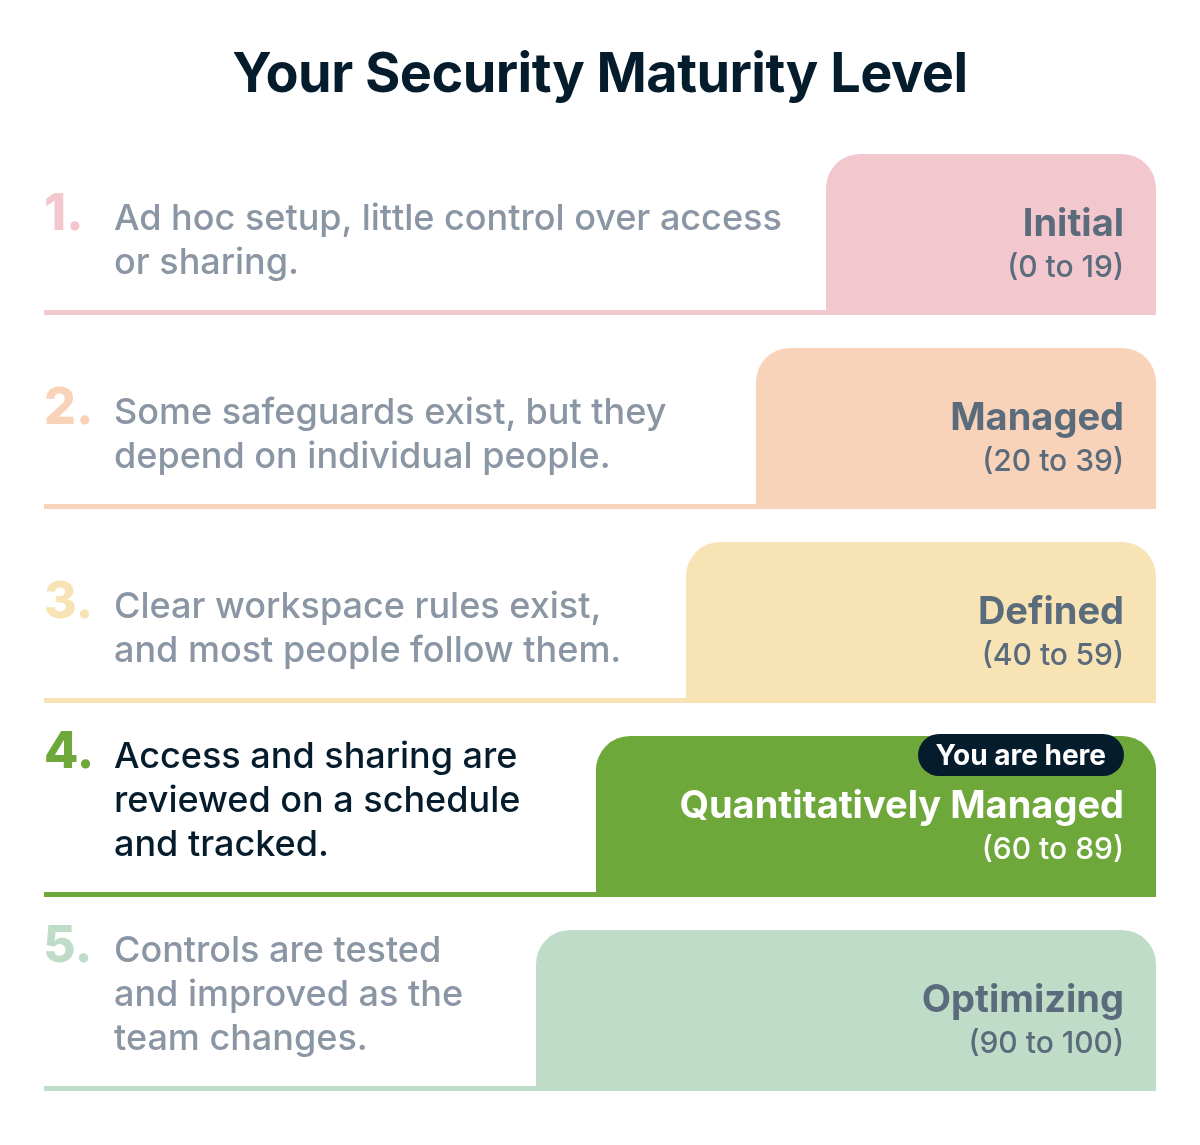
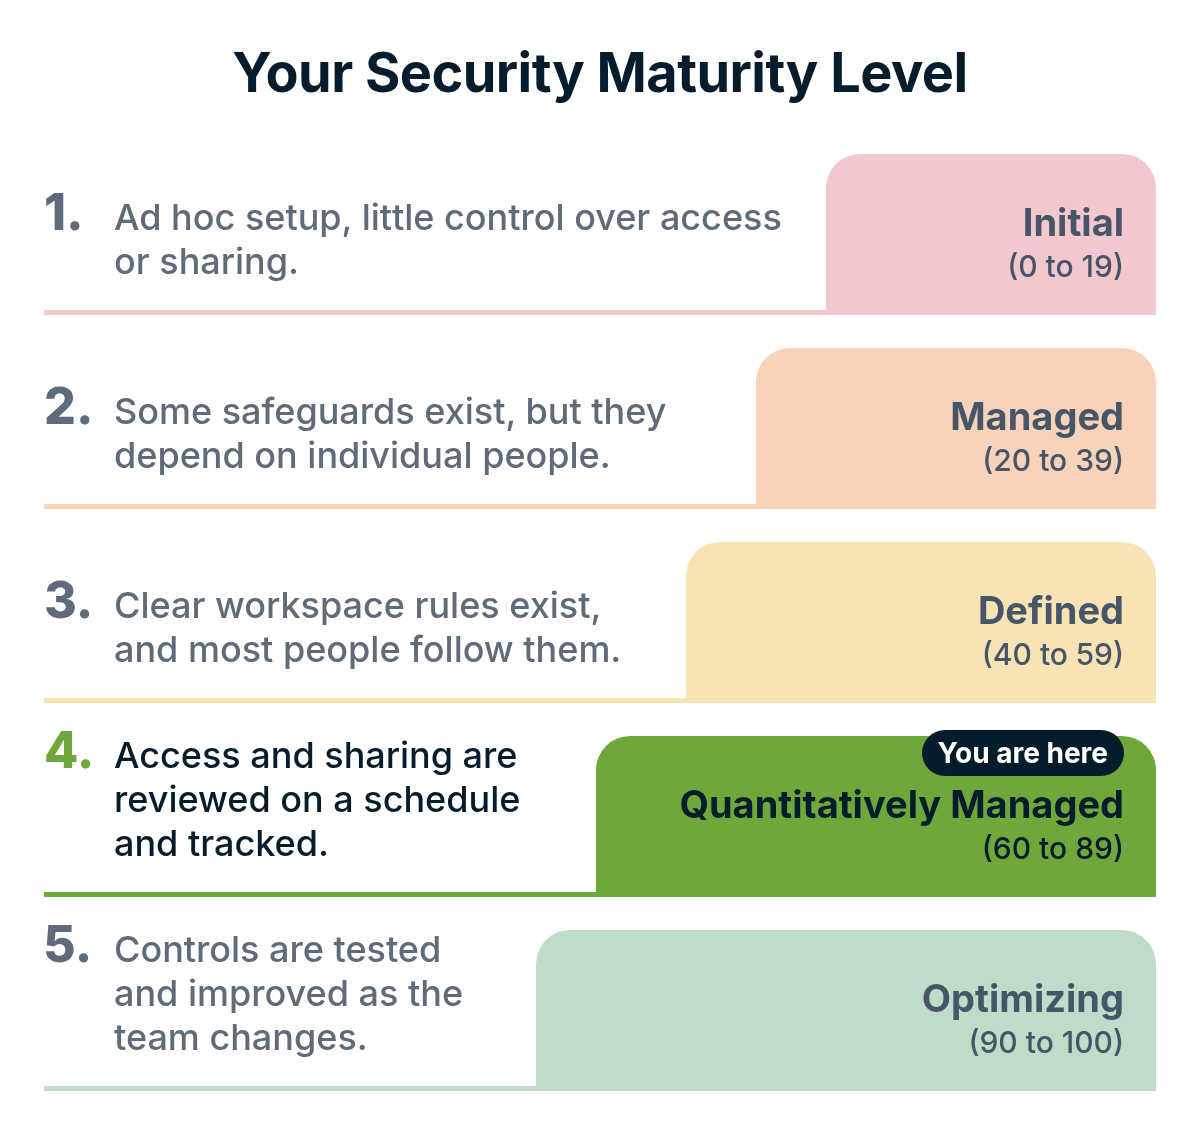
Security Check: Design Critic fixes (staircase contrast, 44px targets, a11y ticks, US dates, repeated steps) + approved copy (level note, good-shape sentence, annual line)

diff --git a/workers/security-check-api/src/render.js b/workers/security-check-api/src/render.js
@@ -2,14 +2,18 @@
 import { esc } from "./validate.js";
 const COL = { gray: "#6b7280", green: "#0F7A32", orange: "#C2410C", red: "#B91C1C" };
 const rt = (arr) => (arr || []).map((x) => {
-  let s = esc(x.text ? x.text.content : x.plain_text || "").replace(/\n/g, "<br>").replace(/✓/g, '<span class="tick">✓</span>');
+  let s = esc(x.text ? x.text.content : x.plain_text || "").replace(/\n/g, "<br>").replace(/✓/g, '<span class="tick">✓</span>').replace(/✅/g, '<span role="img" aria-label="Included" style="color:#0F7A32">✅</span>');
   const a = x.annotations || {};
   if (a.bold) s = "<b>" + s + "</b>";
   if (COL[a.color]) s = '<span style="color:' + COL[a.color] + '">' + s + "</span>";
   const url = x.text && x.text.link && x.text.link.url;
-  if (url) s = /^https:\/\/wa\.me\//.test(url) ? '<a class="bk bk-wa" href="' + esc(url) + '" rel="noopener">' + s + "</a>" : /^mailto:/.test(url) && /email/i.test(s) ? '<a class="bk bk-em" href="' + esc(url) + '">' + s + "</a>" : '<a href="' + esc(url) + '" rel="noopener">' + s + "</a>";
+  if (url) s = /^https:\/\/wa\.me\//.test(url) ? '<a class="bk bk-wa" href="' + esc(url) + '" rel="noopener">' + s + "</a>" : /^mailto:/.test(url) && /email/i.test(s) ? '<a class="bk bk-em" href="' + esc(url) + '">' + s + "</a>" : '<a' + linkClass(x.text.content) + ' href="' + esc(url) + '" rel="noopener">' + s + "</a>";
   return s;
 }).join("");
+// Tap targets (44px at 390): CTAs as navy buttons, contact/footer links as 44px inline-flex targets, other links get vertical padding.
+const CTA = /^\s*(Get the Fix List|Book Fix Session)\s*$/, TAPLINK = /^\s*(Website|www\.anthonytoday\.com|WhatsApp|Email|LinkedIn|Privacy policy|Contact)\s*$/;
+const linkClass = (t) => (CTA.test(t) ? ' class="cta"' : TAPLINK.test(t) ? ' class="tl"' : "");
+const SR = '<span class="sr">Not included</span>';
 const BG = { gray_background: "#f5f5f5", red_background: "#fdecec", blue_background: "#eaf0ff", orange_background: "#fff1e6", green_background: "#e7f7ec", yellow_background: "#fff8db" };
 export function renderBlocks(list, extra = {}) {
   let out = "", listTag = null;
@@ -29,34 +33,45 @@ export function renderBlocks(list, extra = {}) {
     else if (k === "table") {
       const rows = b.children || v.children || [];
       const head = v.has_column_header !== false && rows[0] ? rows[0].table_row.cells.map((c) => (c || []).map((x) => (x.text ? x.text.content : x.plain_text || "")).join("").replace(/\s+/g, " ").trim()) : [];
+      // A table with ✅ cells is a comparison: empty cells get a screen-reader "Not included".
+      const cmp = rows.some((r) => r.table_row.cells.some((c) => (c || []).some((x) => /✅/.test(x.text ? x.text.content : x.plain_text || ""))));
       out += '<table class="st' + (head.length ? " hh" : "") + '">' + rows.map((r, i) => "<tr>" + r.table_row.cells.map((c, j) => {
-        const isHead = (i === 0 && head.length) || (v.has_row_header && j === 0);
-        const cell = rt(c);
-        return isHead ? "<th>" + cell + "</th>" : '<td data-label="' + esc(head[j] || "") + '">' + cell + "</td>";
+        const colHead = i === 0 && head.length, isHead = colHead || (v.has_row_header && j === 0);
+        const cell = rt(c).replace(/(<\/a>) · (<a class="bk)/g, "$1$2"); // the WhatsApp / Email bars stack, so no dot between them
+        if (isHead) return "<th" + (colHead ? ' scope="col"' : ' scope="row"') + ">" + cell + "</th>";
+        return cmp && !cell.trim() ? '<td class="ni" data-label="' + esc(head[j] || "") + '">' + SR + "</td>" : '<td data-label="' + esc(head[j] || "") + '">' + cell + "</td>";
       }).join("") + "</tr>").join("") + "</table>";
     }
+    else if (k === "__footer__") out += "<footer><hr>" + kids + "</footer>";
     else if (k === "__action_db__") out += extra.actionDbHtml || "<p><i>[Action plan database]</i></p>";
   }
   close();
   return out;
 }
 // Action plan grouped by phase (the Notion page has the same rows in the inline database, with By Phase and Timeline views).
-export function renderActionPlan(rows, fmt) {
+export function renderActionPlan(rows, fmtRange) {
   const phases = [...new Set(rows.map((r) => r.phase))];
+  // Item numbers follow the order shown; a repeated step block is shown once, under its first item.
+  const shown = phases.flatMap((ph) => rows.filter((r) => r.phase === ph));
+  const firstHow = new Map();
+  shown.forEach((r, i) => { if (!firstHow.has(r.how)) firstHow.set(r.how, i + 1); else r.sameAs = firstHow.get(r.how); });
   return phases.map((ph) => {
     const rs = rows.filter((r) => r.phase === ph);
-    const when = rs[0].start ? fmt(rs[0].start) + " to " + fmt(rs[rs.length - 1].end) : "When your team has capacity";
-    return '<section class="ph"><h3>' + esc(ph) + ' <span class="when">' + esc(when) + "</span></h3><ul class=\"acts\">" +
+    const when = rs[0].start ? fmtRange(rs[0].start, rs[rs.length - 1].end) : "When your team has capacity";
+    return '<section class="ph"><h3>' + esc(ph) + ': <span class="when">' + esc(when) + "</span></h3><ul class=\"acts\">" +
       rs.map((r) => '<li><span class="tick">✓</span><div><b>' + esc(r.action) + '</b><div class="aim"><span>Priority: ' + esc(r.priority) + "</span><span>" + esc(r.domain) + "</span>" + (r.owner ? "<span>Owner: " + esc(r.owner) + "</span>" : "") + "</div>" +
-        '<p class="how"><b>Steps:</b> ' + esc(r.how) + "</p>" + (r.impact ? "<p><b>Impact:</b> " + esc(r.impact) + "</p>" : "") +
+        (r.sameAs ? '<p class="how"><b>Steps:</b> Same steps as item ' + r.sameAs + ".</p>" : '<p class="how"><b>Steps:</b> ' + esc(r.how) + "</p>") + (r.impact ? "<p><b>Impact:</b> " + esc(r.impact) + "</p>" : "") +
         (r.planNote ? "<p><b>Plan note:</b> " + esc(r.planNote) + "</p>" : "") + (r.source ? '<p><a href="' + esc(r.source) + '" rel="noopener">Notion help</a></p>' : "") + "</div></li>").join("") + "</ul></section>";
   }).join("");
 }
 export function renderPage(title, list, banner, extra) {
   return "<!doctype html><html lang=\"en\"><head><meta charset=\"utf-8\"><meta name=\"viewport\" content=\"width=device-width,initial-scale=1\"><meta name=\"robots\" content=\"noindex,nofollow\"><link rel=\"icon\" href=\"https://www.anthonytoday.com/assets/brand/favicon.png\"><link rel=\"apple-touch-icon\" href=\"https://www.anthonytoday.com/assets/brand/apple-touch-icon.png\"><title>" + esc(title) + "</title><style>" +
     "img.stair{display:block;width:600px;max-width:100%;height:auto;margin:12px 0 4px}*{box-sizing:border-box}body{font-family:-apple-system,BlinkMacSystemFont,'Segoe UI',sans-serif;color:#051C2C;max-width:820px;margin:0 auto;padding:32px 20px 64px;line-height:1.6;overflow-wrap:anywhere}" +
-    "h1{font-size:30px;margin:0 0 8px}h2{font-size:26px;margin:32px 0 10px}h3{font-size:19px;margin:20px 0 8px}summary h3{display:inline}summary{cursor:pointer;margin:12px 0 6px}" +
-    "td .bk{display:block;text-align:center;text-decoration:none;font-weight:600;border-radius:8px;padding:8px 10px;margin:8px 0 0;font-size:14px}td .bk-wa{background:#25D366;color:#fff}td .bk-em{background:#051C2C;color:#fff}" +
+    "h1{font-size:30px;margin:0 0 8px}h2{font-size:26px;margin:32px 0 10px}h3{font-size:19px;margin:20px 0 8px}summary h3{display:inline}summary{cursor:pointer;margin:12px 0 6px;min-height:44px;padding:10px 0;box-sizing:border-box}" +
+    ".sr{position:absolute;width:1px;height:1px;overflow:hidden;clip:rect(0 0 0 0);white-space:nowrap}a{padding:14px 0}a.tl{display:inline-flex;align-items:center;min-height:44px;padding:0 10px}" +
+    "a.cta{display:inline-flex;align-items:center;min-height:44px;padding:12px 20px;background:#051C2C;color:#fff;border-radius:8px;font-weight:600;text-decoration:none;margin:4px 0}" +
+    "footer{margin-top:32px;font-size:14px;color:#5B6672}footer p{margin:6px 0}footer a.tl:first-child{padding-left:0}td.ni::before{display:none}" +
+    "td .bk{display:flex;align-items:center;justify-content:center;min-height:44px;text-align:center;text-decoration:none;font-weight:600;border-radius:8px;padding:8px 10px;margin:8px 0 0;font-size:14px}td .bk-wa{background:#25D366;color:#fff}td .bk-em{background:#051C2C;color:#fff}" +
     ".ph{border:1px solid #E5E7EB;border-radius:10px;margin:14px 0;padding:4px 16px 8px}.ph h3{margin:12px 0 6px}.when{font-weight:400;font-size:14px;color:#5B6672}.acts{list-style:none;padding:0;margin:0}.acts li{display:flex;gap:10px;border-top:1px solid #E5E7EB;padding:12px 0}.acts li:first-child{border-top:0}.acts p{margin:6px 0 0;font-size:14.5px}" +
     "@media (max-width:640px){body{padding:20px 14px 48px}h1.pt{font-size:26px}table.st,table.st tbody,table.st tr,table.st td,table.st th{display:block;width:100%}table.st.hh tr:first-child{display:none}table.st tr{border:1px solid #E5E7EB;border-radius:8px;margin:0 0 10px;padding:6px 10px}table.st th,table.st td{border:0;padding:4px 0}table.st td::before{content:attr(data-label);display:block;font-size:12.5px;color:#5B6672}table.st td:empty,table.st td[data-label=\"\"]::before{display:none}}" +
     "table{border-collapse:collapse;width:100%;font-size:14.5px;margin:8px 0}th,td{border:1px solid #E5E7EB;padding:7px 9px;text-align:left;vertical-align:top}th{background:#F5F5F5}" +

diff --git a/workers/security-check-api/src/notion-tpl.js b/workers/security-check-api/src/notion-tpl.js
@@ -2,6 +2,9 @@
 // reads the template's blocks through the API, applies {{tokens}} and {{#if}} blocks, writes a new page.
 // The Notion API cannot duplicate a page or a database, so the page is rebuilt block by block and the
 // action database is re-created with the template's schema (views cannot be created through the API: gap).
+import { REWRITES } from "./copy.js";
+// Approved wording swaps (copy.js), run by run, before tokens are filled.
+const rewrite = (rt) => (rt || []).map((x) => { let c = x.plain_text ?? x.text?.content ?? ""; const o = c; for (const [a, b] of REWRITES) if (!c.includes(b)) c = c.split(a).join(b); return c === o ? x : { ...x, plain_text: c, text: { ...(x.text || {}), content: c } }; });
 const LIST_NUMBERED = new Set(["priority_risks", "risk_list"]);
 const LIST_BULLET = new Set(["plan_features_unused"]);
 const RO = ["id", "created_time", "last_edited_time", "created_by", "last_edited_by", "has_children", "archived", "in_trash", "parent", "request_id"];
@@ -46,6 +49,7 @@ function fillRt(rt, T) {
         const v = T[m[1]];
         if (v && typeof v === "object" && !Array.isArray(v)) { if (v.link) out.push(txt(v.text, { url: v.link })); continue; }
         if (Array.isArray(v)) { out.push(txt(v.map((i) => (i.b || "") + (i.t || "")).join("; "), { color: x.annotations?.color })); continue; }
+        if (String(v) === "") continue;
         out.push({ type: "text", text: { content: String(v), link: url ? { url } : null }, annotations: x.annotations });
       } else out.push({ type: "text", text: { content: part, link: url ? { url } : null }, annotations: x.annotations });
     }
@@ -135,7 +139,7 @@ export function transform(blocks, T, ctx = {}) {
     const nb = { type: k, [k]: JSON.parse(JSON.stringify(v)) };
     for (const f of Object.keys(nb[k])) if (nb[k][f] === null) delete nb[k][f]; // read API returns e.g. paragraph.icon: null, which the write API rejects
     for (const f of RO) delete nb[f];
-    if (nb[k].rich_text) nb[k].rich_text = fillRt(inlineIf(nb[k].rich_text, T), T);
+    if (nb[k].rich_text) nb[k].rich_text = fillRt(inlineIf(rewrite(nb[k].rich_text), T), T);
     if (k === "table_row") {
       nb[k].cells = v.cells.map((c) => fillRt(c, T));
       // WhatsApp / Email under the two paid offers, as in Anthony's approved sample.
@@ -151,11 +155,14 @@ export function transform(blocks, T, ctx = {}) {
     if (k === "callout" && /^Overall Level/.test(text) && nb.children) nb.children.forEach((c) => { const ct = c[c.type] && c[c.type].rich_text; if (ct && /^Level /.test(plain(ct))) ct.forEach((x) => { x.annotations = { ...(x.annotations || {}), bold: false }; }); });
     // Domain Profile: add the Overall row in the same layout.
     if (k === "table" && nb.children && plain(nb.children[0].table_row.cells[0] || []).trim() === "Area" && T.overall_bar) {
+      ctx.levelNoteAfter = true;
       nb.children.push({ type: "table_row", table_row: { cells: [[{ type: "text", text: { content: "Overall" }, annotations: { bold: true } }], [txt(T.overall_bar)], [txt(T.overall_score + "/100")], [txt("Level " + T.overall_level_number + ", " + T.overall_level)]] } });
       nb[k].table_width = nb[k].table_width || 4;
     }
     if (k === "table") ctx.offerTable = null;
     out.push(nb);
+    // Item 6: the level note as a small gray line directly under the Domain Profile table.
+    if (ctx.levelNoteAfter && T.level_note) { ctx.levelNoteAfter = false; out.push({ type: "paragraph", paragraph: { rich_text: [txt(T.level_note, { color: "gray" })] } }); }
   }
   return out;
 }
@@ -185,9 +192,11 @@ export { actionRows } from "./tokens.js";
 
 // Standard footer for the Notion pages and the Worker-rendered /r/ and /f/ (emails keep their own footer).
 // No Terms link: https://www.anthonytoday.com/terms/ returns 404 (checked 19 Oct 2026).
-export function withFooter(blocks) {
+export function withFooter(blocks, web = false) {
   const link = (t, u) => ({ type: "text", text: { content: t, link: { url: u } } });
-  return [...blocks, { type: "divider", divider: {} },
+  const foot = [
     { type: "paragraph", paragraph: { rich_text: [{ type: "text", text: { content: "© 2026 AnthonyToday.com. All rights reserved." }, annotations: { color: "gray" } }] } },
     { type: "paragraph", paragraph: { rich_text: [link("Privacy policy", "https://www.anthonytoday.com/privacy/"), txt(" · "), link("Contact", "https://www.anthonytoday.com/contact/"), txt(" · "), link("www.anthonytoday.com", "https://www.anthonytoday.com/")] } }];
+  // Web (/r/, /f/): wrapped in a <footer> element by the renderer. Notion: plain blocks after a divider.
+  return web ? [...blocks, { type: "__footer__", children: foot }] : [...blocks, { type: "divider", divider: {} }, ...foot];
 }

diff --git a/workers/security-check-api/src/tokens.js b/workers/security-check-api/src/tokens.js
@@ -1,3 +1,4 @@
+import { COPY, goodShapeSentence } from "./copy.js";
 // Computes every placeholder in /workspace/marketing/security-check-template-placeholders.md.
 // Scalar tokens are strings. List tokens are arrays of items {b: bold lead, t: text, url?}.
 // Typed values (first_name, company) are inserted as plain text; callers escape for HTML.
@@ -6,7 +7,9 @@ const cap = (s) => (s ? s.charAt(0).toUpperCase() + s.slice(1) : s);
 const lc = (s) => (s ? s.charAt(0).toLowerCase() + s.slice(1) : s);
 const joinAnd = (a) => (a.length <= 1 ? a.join("") : a.slice(0, -1).join(", ") + " and " + a[a.length - 1]);
 export const bar = (s) => (s === null ? "N/A" : "▰".repeat(Math.floor(s / 10)) + "▱".repeat(10 - Math.floor(s / 10)));
-export const fmtDate = (d) => new Date(d).toLocaleDateString("en-GB", { day: "numeric", month: "short", year: "numeric", timeZone: "Asia/Dubai" });
+export const fmtDate = (d) => new Date(d).toLocaleDateString("en-US", { month: "short", day: "numeric", year: "numeric", timeZone: "Asia/Dubai" });
+// "Oct 19 to Oct 23, 2026" (same year) or "Dec 29, 2026 to Jan 2, 2027".
+export const fmtRange = (a, b) => { const md = (d) => new Date(d).toLocaleDateString("en-US", { month: "short", day: "numeric", timeZone: "Asia/Dubai" }); const y = (d) => new Date(d).toLocaleDateString("en-US", { year: "numeric", timeZone: "Asia/Dubai" }); return y(a) === y(b) ? md(a) + " to " + md(b) + ", " + y(b) : fmtDate(a) + " to " + fmtDate(b); };
 
 // Plan feature library (Free page "Already in Your Plan"). Plus texts are from the SAMPLE free page.
 // Free/Business/Enterprise/"Not sure" lines follow the placeholder map; PM to confirm wording.
@@ -72,6 +75,14 @@ export function computeTokens(data, sub, r, links, kind = "free") {
   const top = r.topRisks;
   const short = (x) => (data.risk_short_names || {})[x.id] || lc(q[x.id].title);
   T.top_risks_summary = joinAnd(top.map(short)) || "a few gaps";
+  T.top_risks_summary_cap = cap(T.top_risks_summary);
+  // Item 7 (PM 11:18): an area is "in good shape" only if the result lists no risk (every answered question
+  // in it scored full points) and no fix/action for it. Being at Level 4 is not enough.
+  { const qDom = Object.fromEntries(data.questions.map((x) => [x.id, x.domain]));
+    const acts = actionRows(data, r, kind === "fixlist" && sub.paid_at ? sub.paid_at : sub.submitted_at, sub.plan);
+    const good = r.domains.filter((d) => { const qs = r.perQuestion.filter((x) => qDom[x.id] === d.id && x.points !== null); return qs.length && qs.every((x) => x.points === 10) && !acts.some((a) => a.domain === d.name); }).map((d) => d.id);
+    T.good_shape_areas = good; const g = goodShapeSentence(good); T.good_shape_sentence = g ? g + " " : ""; }
+  T.level_note = COPY.level_note.replace("{{overall_score}}", T.overall_score);
   T.exposure_summary = top.some((x) => x.domain === "sharing" || x.domain === "integrations") ? "leave client material exposed" : "leave gaps an outsider could use";
   T.biggest_impact_sentence = top[0] ? "Closing " + short(top[0]) + " first makes the biggest difference" + (kind === "fixlist" && top[1] ? ", followed by " + short(top[1]) + "." : ".") : "";
   T.main_risk = top[0] ? cap(q[top[0].id].risk) : "No major risk found in your answers.";

diff --git a/workers/security-check-api/src/copy.js b/workers/security-check-api/src/copy.js
@@ -1,0 +1,37 @@
+// Approved copy that may change again (PM / L0_CEO). One place, so a later swap is a one-line edit.
+// Rewrites are applied to the Notion template text (live template or repo snapshot) before tokens are filled,
+// so the Notion pages, /r/ and /f/ all get the same wording. Once a template carries the new text, its rewrite is a no-op.
+export const COPY = {
+  // Item 6 (PM, L0_CEO 19 Oct 2026): Overall Level callout, line 3, and the gray note under the Domain Profile table.
+  level_note: "Average score {{overall_score}}/100. Your level is set by your lowest area, so it can be lower than your average suggests.",
+  // Item 7: one "in good shape" sentence. {list} uses the area labels below, in Domain Profile order.
+  good_shape: { one: "{A} {verb} in good shape.", two: "{A} and {B} are both in good shape.", many: "{list} are all in good shape." },
+  // Plain area labels with grammatical number (verb agreement for the 1-area sentence).
+  area_labels: {
+    identity: { label: "Sign-in and accounts", plural: true },
+    sharing: { label: "Sharing", plural: false },
+    integrations: { label: "Connected apps", plural: true },
+    people: { label: "Offboarding", plural: false },
+    governance: { label: "Admin rights", plural: true },
+    resilience: { label: "Recovery", plural: false },
+  },
+  // Item 11 (L0_CEO): annual billing line on the Fix List; "Cancel any time" only on the monthly line.
+  annual_line: "Annual: $2,970/year, billed once a year.",
+  monthly_cancel: "Cancel any time.",
+};
+export const REWRITES = [
+  ["Score {{overall_score}} / 100. Your level comes from your weakest areas, not the average.", COPY.level_note],
+  // Summary sentence: the good-shape sentence stands on its own (omitted when no area qualifies).
+  ["): {{strength_summary}}, but {{top_risks_summary}} ", "). {{good_shape_sentence}}{{top_risks_summary_cap}} "],
+  ["Annual: $2,970. Cancel any time.", COPY.annual_line],
+  ["$347/mo founding rate for the first 5 clients, then $490/mo. ", "$347/mo founding rate for the first 5 clients, then $490/mo. " + COPY.monthly_cancel + " "],
+];
+// Exported for tests.
+export function goodShapeSentence(ids) {
+  const L = ids.map((id) => COPY.area_labels[id]);
+  if (!L.length) return "";
+  const lab = L.map((x, i) => (i ? x.label.charAt(0).toLowerCase() + x.label.slice(1) : x.label));
+  if (L.length === 1) return COPY.good_shape.one.replace("{A}", lab[0]).replace("{verb}", L[0].plural ? "are" : "is");
+  if (L.length === 2) return COPY.good_shape.two.replace("{A}", lab[0]).replace("{B}", lab[1]);
+  return COPY.good_shape.many.replace("{list}", lab.slice(0, -1).join(", ") + ", and " + lab[lab.length - 1]);
+}

diff --git a/workers/security-check-api/src/index.js b/workers/security-check-api/src/index.js
@@ -11,7 +11,7 @@ import { buildResultEmail, buildFixlistEmail, resendSuppressed, resendSuppress, 
 import { Notion, leadProperties, paidProperties } from "./notion.js";
 import { readTree, transform, writeTree, actionRows, withFooter } from "./notion-tpl.js";
 import { renderPage, renderBlocks, renderActionPlan } from "./render.js";
-import { fmtDate } from "./tokens.js";
+import { fmtDate, fmtRange } from "./tokens.js";
 
 const enc = new TextEncoder();
 const b64u = (buf) => btoa(String.fromCharCode(...new Uint8Array(buf))).replace(/\+/g, "-").replace(/\//g, "_").replace(/=+$/, "");
@@ -127,6 +127,7 @@ async function handleSubmit(req, env, ctx, h) {
 // Internal notification to admin@ (free result incl. held, and every Fix List purchase). Never blocks the client flow.
 async function notifyInternal(env, kind, sub, r, L, idem) {
   if (isDry(env) || !env.RESEND_API_KEY) return { dry: true };
+  if (env.INTERNAL_NOTIFY === "off") return { skipped: "INTERNAL_NOTIFY=off (test runs)" };
   const leadUrl = sub.lead_page_id ? "https://www.notion.so/" + sub.lead_page_id.replace(/-/g, "") : null;
   const lab = (list, v) => (list.find((o) => o.value === v) || {}).label || v;
   sub = { ...sub, team_size_label: lab(data.profile.team_size, sub.team_size), plan_label: lab(data.profile.plan, sub.plan) };
@@ -246,9 +247,9 @@ async function handleResultPage(env, rid, t, kind) {
   const L = await links(env, sub);
   const T = computeTokens(data, sub, sub.result, L, kind === "free" ? "free" : "fixlist");
   const tpl = await templateBlocks(env, kind === "free" ? "free" : "fix");
-  const blocks = webVariant(withFooter(transform(tpl.blocks, T)));
+  const blocks = webVariant(withFooter(transform(tpl.blocks, T), true));
   const banner = sub.dry_run && isDry(env) ? "DRY-RUN PREVIEW. Template source: " + tpl.source + ". Nothing was created in Notion and no email was sent." : null;
-  const extra = kind === "fix" ? { actionDbHtml: renderActionPlan(actionRows(data, sub.result, sub.paid_at || sub.submitted_at, sub.plan), fmtDate) } : {};
+  const extra = kind === "fix" ? { actionDbHtml: renderActionPlan(actionRows(data, sub.result, sub.paid_at || sub.submitted_at, sub.plan), fmtRange) } : {};
   return html(renderPage(kind === "free" ? "Free Security Check Result" : "Security Check Fix List", blocks, banner, extra));
 }
 

diff --git a/pages/security-check.html b/pages/security-check.html
@@ -43,6 +43,7 @@ no_offer_popup: true
 .qf .cta{margin-top:22px;padding:22px;border-radius:12px;background:#EAF0FF;border:1px solid #C9D6FF}
 .qf .disc{font-size:12.5px;color:var(--text-gray);margin-top:16px;line-height:1.6}
 @media(max-width:640px){.qf .head h1{font-size:30px}.qf .big{font-size:36px}.qf .prof .b{letter-spacing:0;font-size:12px}}
+.privacy a{display:inline-flex;align-items:center;min-height:44px;padding:0 4px}
 </style>
 <div class="qf" id="sc">
 
@@ -206,7 +207,7 @@ no_offer_popup: true
     card.appendChild(el("h2", null, "Your Result"));
     card.appendChild(el("div", "lvl", "Overall Level"));
     card.appendChild(el("div", "big", "Level " + r.level + ", " + r.levelName));
-    card.appendChild(el("p", null, "Score " + r.total + " / 100. Your level comes from your weakest areas, not the average."));
+    card.appendChild(el("p", null, {{ ui["ui.level_note"] | jsonify }}.replace("{score}", r.total)));
     var t = el("table", "prof");
     r.domains.forEach(function (x) {
       var tr = el("tr");
